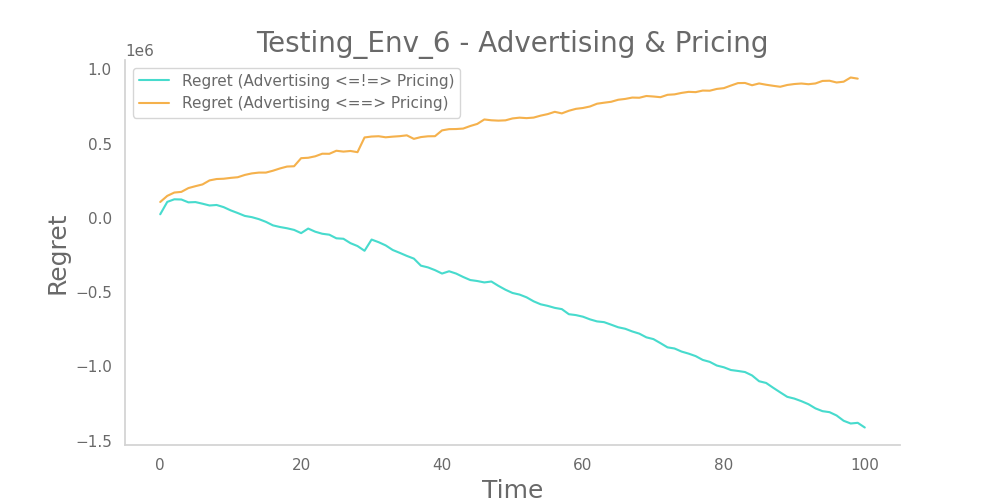
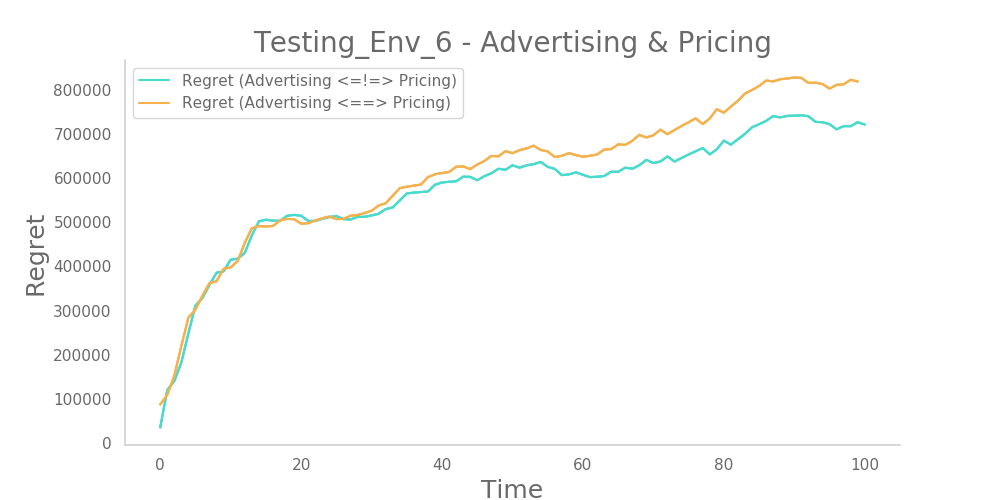
backup

diff --git a/project/part_6/Testing_Env_6.py b/project/part_6/Testing_Env_6.py
@@ -16,6 +16,7 @@ from project.part_6.BudgetAllocator import BudgetAllocator
 np.random.seed(0)
 
 enable_pricing = True
+plot_advertising = False
 
 
 def execute_experiment(args):
@@ -24,8 +25,8 @@ def execute_experiment(args):
     mch = args['multiclasshandler']
 
     budget_allocator = BudgetAllocator(multi_class_handler=mch,
-                                       n_arms_pricing=20,
-                                       n_arms_advertising=20,
+                                       n_arms_pricing=10,
+                                       n_arms_advertising=10,
                                        enable_pricing=enable_pricing)
 
     current_day, done = env.reset()
@@ -36,22 +37,20 @@ def execute_experiment(args):
         # Handler solve the problem for current day
         budget_allocator.update()
 
-        # For viewing purpose
-        # import time
-        # time.sleep(5)
-
         # Day step
         current_day, done = env.step()
+
+    if plot_advertising:
+        for subcampaign_handler in budget_allocator.msh.subcampaigns_handlers:
+            unknown_clicks_curve = subcampaign_handler.advertising.env.subs[
+                subcampaign_handler.advertising.sub_idx].means['phase_0']
+            subcampaign_handler.advertising.learner.plot(unknown_clicks_curve, sigma_scale_factor=10)
 
     print('Total revenue:', int(budget_allocator.msh.total_revenue),
           'Cumulative regret:', int(sum(budget_allocator.msh.regret)),
           'Final loss:', sum(budget_allocator.msh.regret) / budget_allocator.msh.total_revenue)
 
     print(str(index) + ' has ended')
-
-    # for i, subcampaignhandler in enumerate(budget_allocator.msh.subcampaigns_handlers):
-    # learner = subcampaignhandler.get_updated_parameters()
-    # learner.plot(subcampaignhandler.advertising.env.subs[i])
 
     return {'agnostic_regret': budget_allocator.msh.regret, 'regret': budget_allocator.regret}
 
@@ -92,7 +91,7 @@ if __name__ == '__main__':
     plt.legend()
     plt.show()
 
-    n_experiments = 1  # the number is small to do a raw test, otherwise set it to 1000
+    n_experiments = 5  # the number is small to do a raw test, otherwise set it to 1000
     agnostic_regret_per_experiment = []  # collect all the regrets achieved
     regret_per_experiment = []
     args = [{'environment': copy.deepcopy(base_env), 'index': idx, 'multiclasshandler': mch}
@@ -110,12 +109,13 @@ if __name__ == '__main__':
     plt.title(title, fontsize=20)
 
     for agnostic_regret in agnostic_regret_per_experiment:
-        plt.plot(np.cumsum(agnostic_regret), alpha=0.05, c='C2')
-    plt.plot(np.cumsum(np.mean(agnostic_regret_per_experiment, axis=0)), c='C2',
+        plt.plot(np.cumsum(agnostic_regret), alpha=0.4, c='C2')
+    plt.plot(np.cumsum(np.mean(agnostic_regret_per_experiment, axis=0)),
+             c='C2',
              label='Regret (Advertising <=!=> Pricing)')
 
     for regret in regret_per_experiment:
-        plt.plot(np.cumsum(regret), alpha=0.05, c='C3')
+        plt.plot(np.cumsum(regret), alpha=0.4, c='C3')
     plt.plot(np.cumsum(np.mean(regret_per_experiment, axis=0)), c='C3', label='Regret (Advertising <==> Pricing)')
     plt.xlabel('Time')
     plt.ylabel('Regret')

diff --git a/project/part_6/SubCampaignHandler.py b/project/part_6/SubCampaignHandler.py
@@ -34,6 +34,9 @@ class SubCampaignHandler:
         self.total_revenue = 0
         self.total_clicks = 0
 
+        self.daily_revenue = 0
+        self.daily_clicks = 0
+
     def daily_update(self, pulled_arm):
         """
             Daily update
@@ -41,22 +44,22 @@ class SubCampaignHandler:
         :return:
         """
         # extracting the daily reward from the TS
-        daily_clicks = self.advertising.get_daily_clicks(pulled_arm)
-        daily_revenue = self.pricing.get_daily_revenue(daily_clicks)
+        self.daily_clicks = self.advertising.get_daily_clicks(pulled_arm)
+        self.daily_revenue = self.pricing.get_daily_revenue(self.daily_clicks)
 
-        daily_regret = self.get_daily_regret(daily_clicks, self.advertising.optimal_clicks,
-                                             daily_revenue, self.pricing.optimal_revenue)
+        daily_regret = self.get_daily_regret(self.daily_clicks, self.advertising.optimal_clicks,
+                                             self.daily_revenue, self.pricing.optimal_revenue)
 
         print('class: ', self.class_name,
               'optimal clicks: ', self.advertising.optimal_clicks,
-              'collected clicks: ', round(daily_clicks),
+              'collected clicks: ', round(self.daily_clicks),
               'optimal revenue: ', round(self.pricing.optimal_revenue * self.advertising.optimal_clicks),
-              'collected revenue: ', int(daily_revenue))
+              'collected revenue: ', int(self.daily_revenue))
 
-        self.total_revenue += daily_revenue
-        self.total_clicks += daily_clicks
+        self.total_revenue += self.daily_revenue
+        self.total_clicks += self.daily_clicks
 
-        return daily_regret, daily_revenue
+        return daily_regret, self.daily_revenue
 
     def get_daily_regret(self, daily_clicks, optimal_daily_clicks, daily_revenue, optimal_daily_revenue):
         """

diff --git a/project/part_6/BudgetAllocator.py b/project/part_6/BudgetAllocator.py
@@ -51,13 +51,8 @@ class BudgetAllocator:
             learner_clicks = subcampaign_handler.get_updated_parameters().means
 
             n_clicks = subcampaign_handler.total_clicks
-            v = subcampaign_handler.total_revenue if n_clicks != 0 else 0
+            v = subcampaign_handler.total_revenue / n_clicks if n_clicks != 0 else 0
             revenue_clicks = np.multiply(learner_clicks, v) if self.enable_pricing else learner_clicks
-
-            if subcampaign_handler.advertising.sub_idx == 5:
-                subcampaign_handler.advertising.learner.plot(
-                    subcampaign_handler.advertising.env.subs[subcampaign_handler.advertising.sub_idx].means['phase_0'],
-                    sigma_scale_factor=5)
 
             table_all_subs = np.append(table_all_subs, np.atleast_2d(revenue_clicks.T), 0)
 

diff --git a/project/dia_pckg/SubCampaign.py b/project/dia_pckg/SubCampaign.py
@@ -19,8 +19,8 @@ class SubCampaign:
         self.product = product
         self.campaign = campaign
 
-        self.param_for_phase = np.random.choice(np.arange(3, 7, 1), 3)
-        self.max_value_phase = np.random.choice(np.arange(0.5, 1, 0.1), 3)
+        self.param_for_phase = np.random.choice(np.arange(2, 10, 1), 3)
+        self.max_value_phase = np.random.choice(np.arange(0.3, 1, 0.1), 3)
 
         self.means = {f'phase_{i}': self.phase_curve(bids, phase=i) for i in range(3)}
         self.sigmas = {f'phase_{i}': np.multiply(self.means[f'phase_{i}'], sigma) for i in range(3)}

diff --git a/project/part_4/TS_Learner.py b/project/part_4/TS_Learner.py
@@ -59,7 +59,7 @@ class TS_Learner(Learner):
         """
         :param pulled_arm:
         :param bernoulli_reward:
-        :return: the real reward price*bernoulli_reard
+        :return: the real reward price * bernoulli_real
         """
         real_reward = bernoulli_reward * self.arm_prices[pulled_arm]  # calculate the real reward (isBought*price)
         return real_reward
